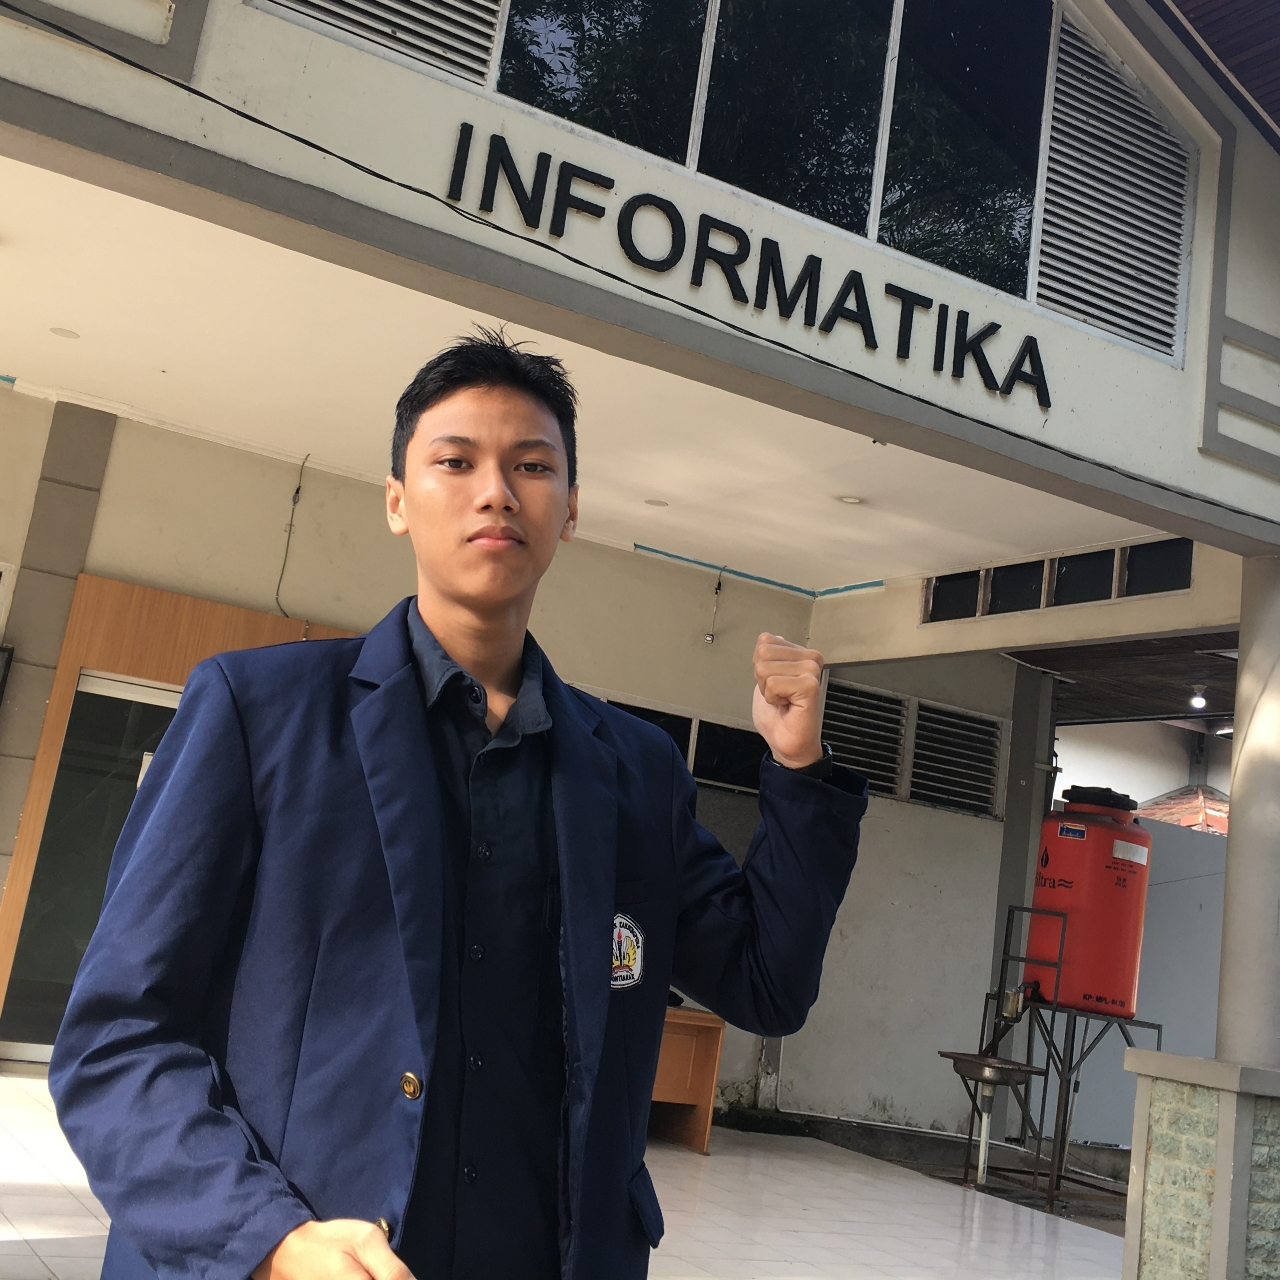
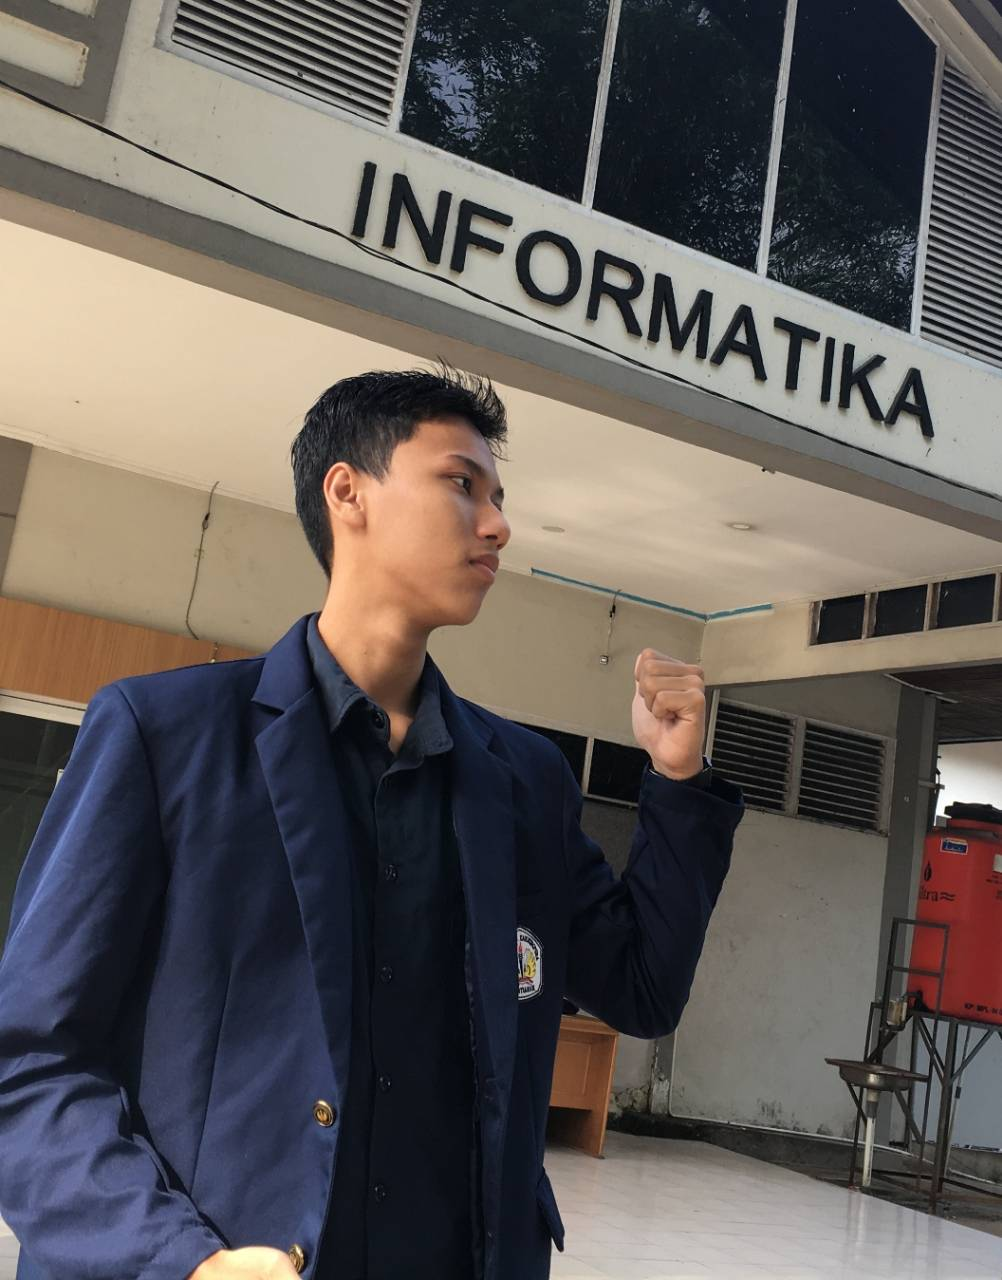
v1.3.1

diff --git a/index.html b/index.html
@@ -65,18 +65,19 @@
             <li class="has-logo" title="Unity"><span class="logo-box"><img src="assets/tech/unity.png" alt="Unity"></span><span>Engine utama</span></li>
             <li class="has-logo" title="C#"><span class="logo-box"><img src="assets/tech/csharp.png" alt="C#"></span><span>Bahasa utama</span></li>
           </ul>
-          <p class="stack-title">Bahasa dan tools lain</p>
+          <p class="stack-title">Tools dan Bahasa</p>
           <ul class="stack-list">
             <li><span class="logo-box"><img src="assets/tech/androidstudio.png" alt=""></span>Android Studio</li>
             <li><span class="logo-box"><img src="assets/tech/kotlin.png" alt=""></span>Kotlin</li>
             <li><span class="logo-box"><img src="assets/tech/cpp.png" alt=""></span>C++</li>
             <li><span class="logo-box"><img src="assets/tech/javascript.png" alt=""></span>JavaScript</li>
             <li><span class="logo-box"><img src="assets/tech/nodejs.png" alt=""></span>Node.js</li>
+            <li><span class="logo-box"><img src="assets/tech/python.png" alt=""></span>Python</li>
           </ul>
           <ul class="now">
-            <li><i></i> Membuat: Ojol Rush</li>
-            <li><i></i> Belajar: game development</li>
-            <li><i></i> Mencoba: aplikasi mobile dengan Android Studio</li>
+            <li><i></i> On Progress: Ojol Rush Game</li>
+            <li><i></i> On Progress: Web Portofolio</li>
+            <li><i></i> Coming Soon</li>
           </ul>
         </div>
       </div>
@@ -89,7 +90,7 @@
         <ol>
           <li>
             <div class="row"><b>Universitas Tanjungpura</b><time>2026 - Sekarang</time></div>
-            <p class="sub">Teknik Informatika, semester 1</p>
+            <p class="sub">Teknik Informatika, Semester 1</p>
           </li>
           <li>
             <div class="row"><b>SMAN 3 Sanggau</b><time>2021 - 2024</time></div>

diff --git a/script.js b/script.js
@@ -9,8 +9,8 @@ const projects = [
     itch: "",     // isi link itch.io kalau sudah rilis
     github: ""    // isi link repo GitHub
   },
-  { title: "Project berikutnya", description: "Slot untuk game selanjutnya.", status: "Segera hadir", image: "", itch: "", github: "" },
-  { title: "Eksperimen", description: "Prototype kecil dan latihan mekanik game.", status: "Segera hadir", image: "", itch: "", github: "" }
+  { title: "Coming Soon", description: "Project Lainnya.", status: "Segera hadir", image: "", itch: "", github: "" },
+  { title: "Coming Soon", description: "Project Lainnya.", status: "Segera hadir", image: "", itch: "", github: "" }
 ];
 
 // ===== MEMBUAT CARD =====
